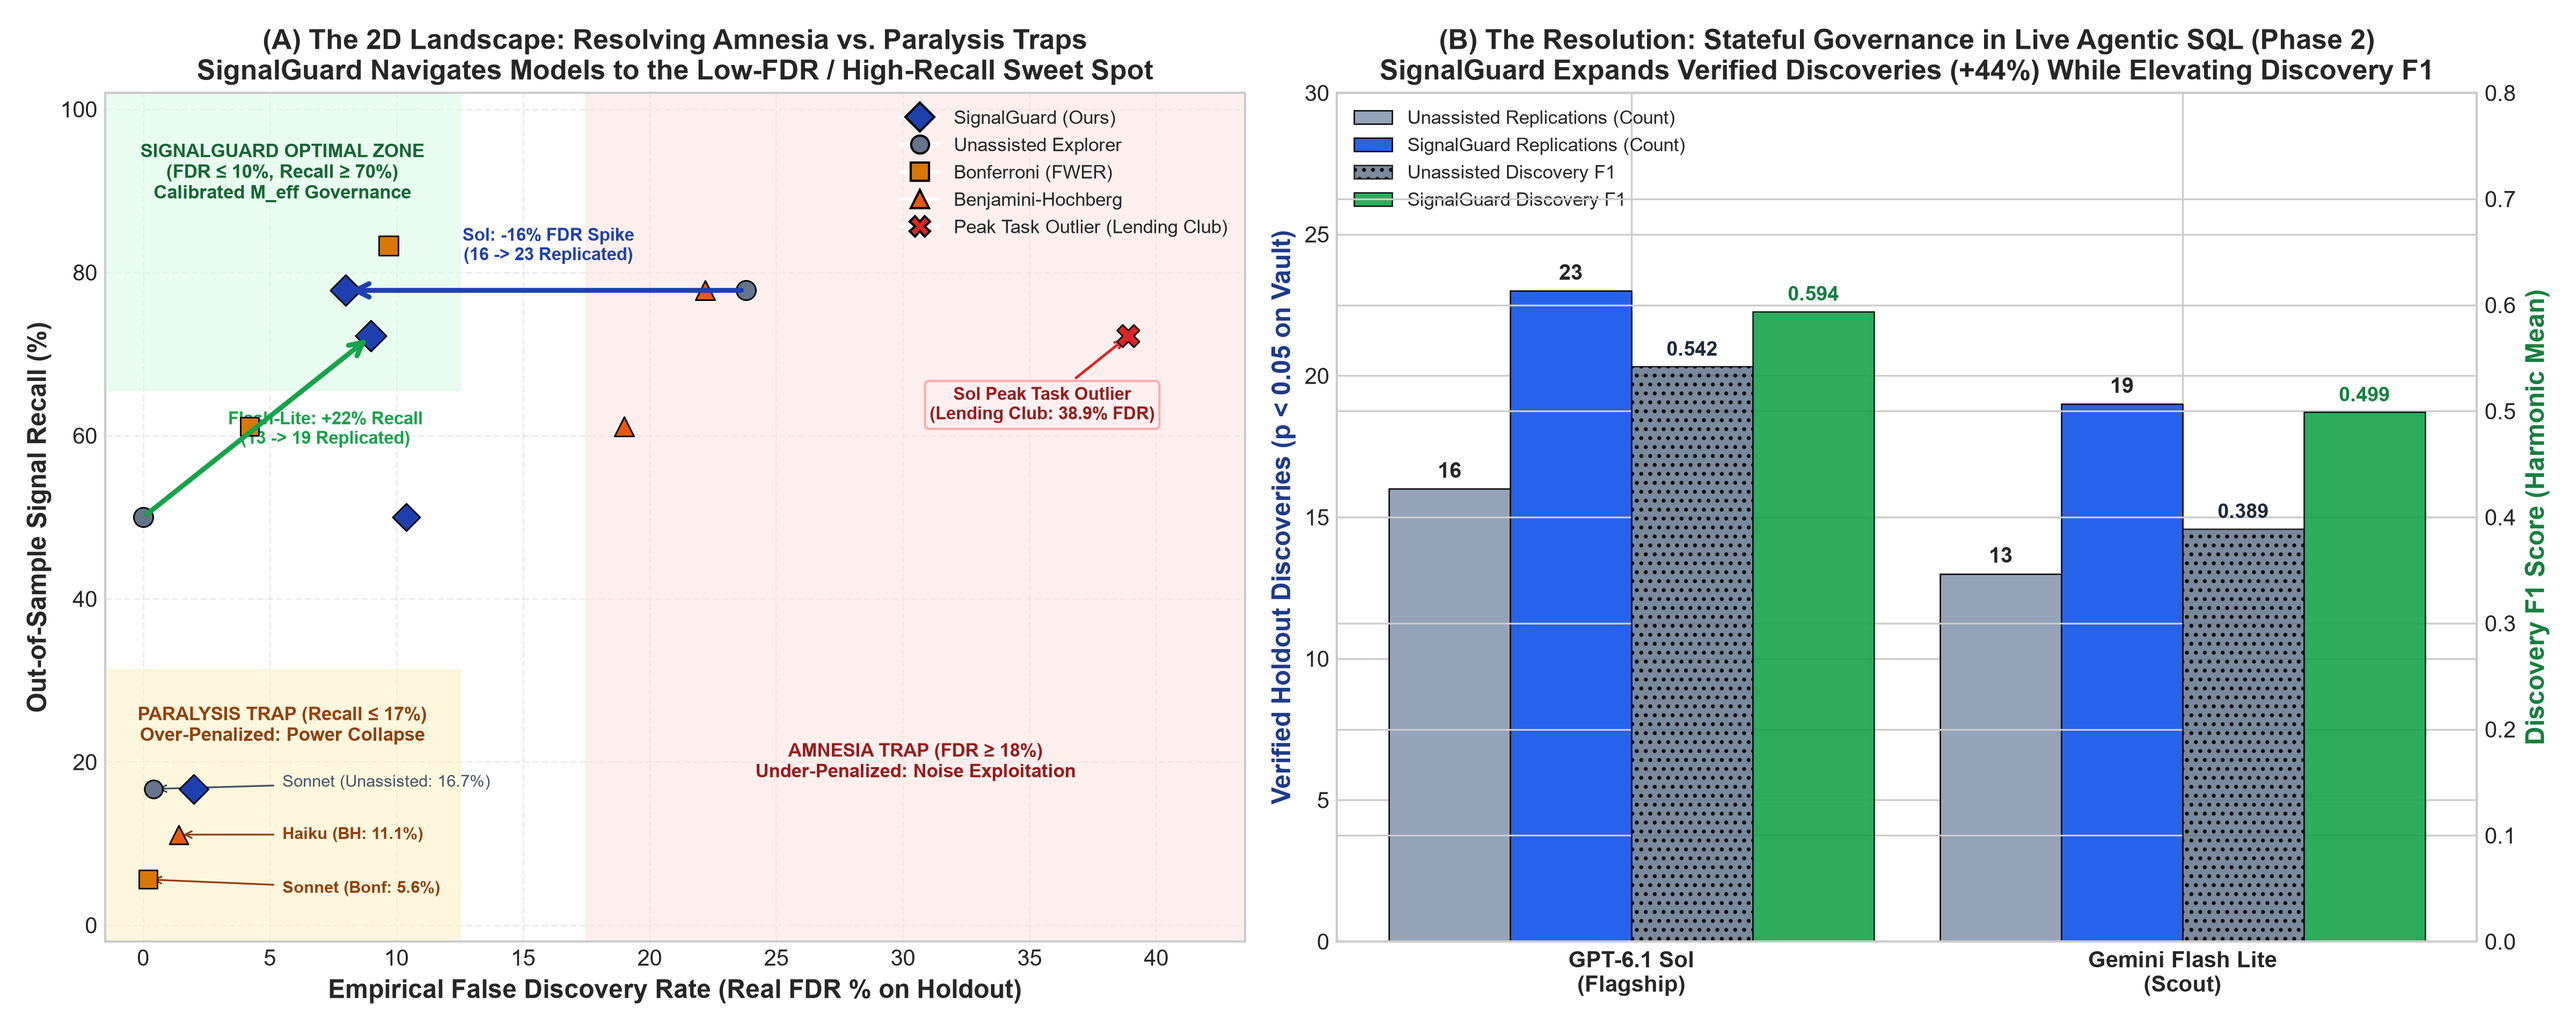
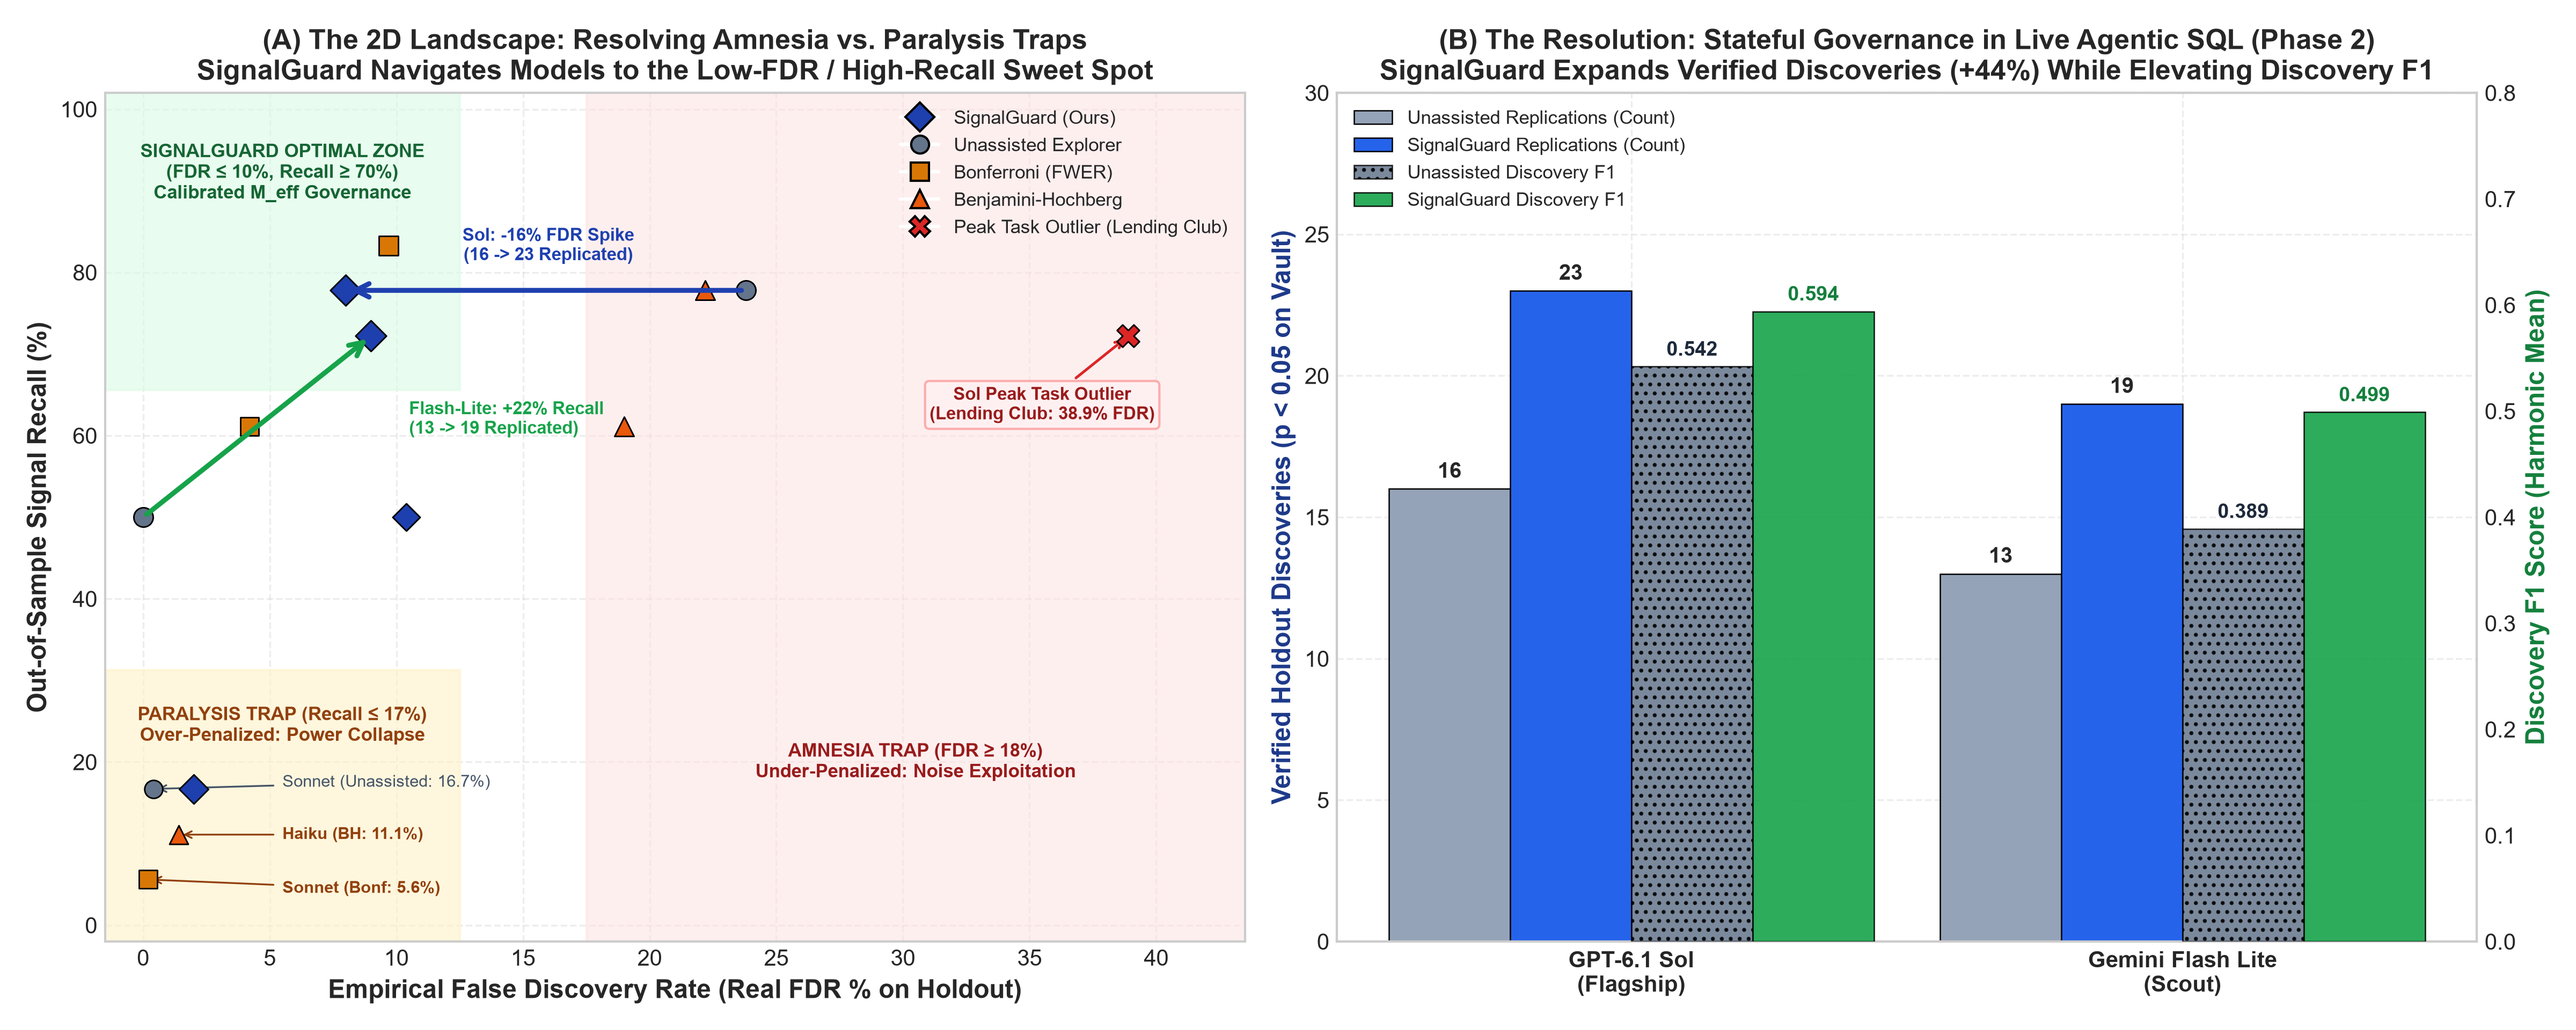
fix(viz): move Flash-Lite label clear of arrow and eliminate twinx grid lines over bars in Panel B

Changed region(s): [[0.0938, 0.375, 0.2188, 0.4375]]

diff --git a/scripts/generate_hero_figure.py b/scripts/generate_hero_figure.py
@@ -57,14 +57,6 @@ ax1.text(5.5, 96, "SIGNALGUARD OPTIMAL ZONE\n(FDR ≤ 10%, Recall ≥ 70%)\nCali
          color='#166534', fontsize=8.5, fontweight='bold', ha='center', va='top', zorder=2)
 
 # 2. Points configuration:
-# To prevent vertical stacking at FDR = 0.0%, we apply a minor visual offset (jitter) for distinct visibility:
-# Sonnet Bonf: (0.2, 5.6)
-# Haiku BH: (1.2, 11.1)
-# Sonnet Unassisted: (0.4, 16.7)
-# Sonnet SignalGuard: (1.8, 16.7)
-
-# Scatter points:
-# (FDR, Recall, Label, Arm, Color, Marker, Size)
 pts = [
     # Paralysis Trap Points (Multiple models collapse here!)
     (0.2, 5.6, "Sonnet (Bonf: 5.6%)", "bonf", "#d97706", "s", 70),
@@ -118,10 +110,10 @@ ax1.annotate("", xy=(8.0, 77.8), xytext=(23.8, 77.8),
              arrowprops=dict(arrowstyle="->", color="#1e40af", lw=2.2, mutation_scale=15), zorder=6)
 ax1.text(16.0, 81.5, "Sol: -16% FDR Spike\n(16 -> 23 Replicated)", color="#1e40af", fontsize=8, fontweight='bold', ha='center')
 
-# Flash-Lite rescue
+# Flash-Lite rescue: moved label to the right of the arrow (ha='left' at x=10.5, y=62.0)
 ax1.annotate("", xy=(9.0, 72.2), xytext=(0.0, 50.0),
              arrowprops=dict(arrowstyle="->", color="#16a34a", lw=2.2, mutation_scale=15), zorder=6)
-ax1.text(7.2, 59.0, "Flash-Lite: +22% Recall\n(13 -> 19 Replicated)", color="#16a34a", fontsize=8, fontweight='bold', ha='center')
+ax1.text(10.5, 62.0, "Flash-Lite: +22% Recall\n(13 -> 19 Replicated)", color="#16a34a", fontsize=8, fontweight='bold', ha='left', va='center')
 
 # Axis formatting
 ax1.set_xlim(-1.5, 43.5)
@@ -166,14 +158,25 @@ color_sg_bar = "#2563eb"        # Royal blue
 color_unassist_f1 = "#64748b"   # Dark slate
 color_sg_f1 = "#16a34a"         # Emerald green
 
-# Plot Counts (Left Axis)
-b1 = ax2.bar(x_b - width_b*1.5, unassisted_reps, width_b, label="Unassisted Replications (Count)", color=color_unassist_bar, edgecolor="black", linewidth=0.6)
-b2 = ax2.bar(x_b - width_b*0.5, signalguard_reps, width_b, label="SignalGuard Replications (Count)", color=color_sg_bar, edgecolor="black", linewidth=0.6)
+# Ensure grid is drawn BEHIND bars and twin axis has NO grid
+ax2.set_axisbelow(True)
+ax2.grid(True, linestyle="--", alpha=0.35, zorder=0)
+
+# Plot Counts (Left Axis) with explicit zorder=3
+b1 = ax2.bar(x_b - width_b*1.5, unassisted_reps, width_b, label="Unassisted Replications (Count)", 
+             color=color_unassist_bar, edgecolor="black", linewidth=0.6, zorder=3)
+b2 = ax2.bar(x_b - width_b*0.5, signalguard_reps, width_b, label="SignalGuard Replications (Count)", 
+             color=color_sg_bar, edgecolor="black", linewidth=0.6, zorder=3)
 
 # Create twin axis for Discovery F1
 ax2_twin = ax2.twinx()
-b3 = ax2_twin.bar(x_b + width_b*0.5, unassisted_f1, width_b, label="Unassisted Discovery F1", color=color_unassist_f1, hatch="...", alpha=0.85, edgecolor="black", linewidth=0.6)
-b4 = ax2_twin.bar(x_b + width_b*1.5, signalguard_f1, width_b, label="SignalGuard Discovery F1", color=color_sg_f1, alpha=0.9, edgecolor="black", linewidth=0.6)
+ax2_twin.grid(False)  # CRITICAL: Disable twin axis grid so it does not draw over bars!
+ax2_twin.set_axisbelow(True)
+
+b3 = ax2_twin.bar(x_b + width_b*0.5, unassisted_f1, width_b, label="Unassisted Discovery F1", 
+                  color=color_unassist_f1, hatch="...", alpha=0.85, edgecolor="black", linewidth=0.6, zorder=3)
+b4 = ax2_twin.bar(x_b + width_b*1.5, signalguard_f1, width_b, label="SignalGuard Discovery F1", 
+                  color=color_sg_f1, alpha=0.9, edgecolor="black", linewidth=0.6, zorder=3)
 
 # Add exact value labels on bars
 def autolabel_counts(rects, ax_target):
@@ -182,7 +185,7 @@ def autolabel_counts(rects, ax_target):
         ax_target.annotate(f"{int(h)}",
                            xy=(rect.get_x() + rect.get_width() / 2, h),
                            xytext=(0, 3), textcoords="offset points",
-                           ha='center', va='bottom', fontsize=9.5, fontweight="bold")
+                           ha='center', va='bottom', fontsize=9.5, fontweight="bold", zorder=5)
 
 def autolabel_floats(rects, ax_target, color):
     for rect in rects:
@@ -190,7 +193,7 @@ def autolabel_floats(rects, ax_target, color):
         ax_target.annotate(f"{h:.3f}",
                            xy=(rect.get_x() + rect.get_width() / 2, h),
                            xytext=(0, 3), textcoords="offset points",
-                           ha='center', va='bottom', fontsize=9, fontweight="bold", color=color)
+                           ha='center', va='bottom', fontsize=9, fontweight="bold", color=color, zorder=5)
 
 autolabel_counts(b1, ax2)
 autolabel_counts(b2, ax2)
@@ -209,7 +212,7 @@ ax2.set_title("(B) The Resolution: Stateful Governance in Live Agentic SQL (Phas
 # Combine legends for Panel B
 lines_b, labels_b = ax2.get_legend_handles_labels()
 lines_b2, labels_b2 = ax2_twin.get_legend_handles_labels()
-ax2.legend(lines_b + lines_b2, labels_b + labels_b2, loc="upper left", framealpha=0.9, fontsize=8.5)
+ax2.legend(lines_b + lines_b2, labels_b + labels_b2, loc="upper left", framealpha=0.9, facecolor='white', edgecolor='#cbd5e1', fontsize=8.5)
 
 plt.tight_layout()
 
